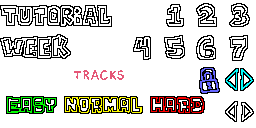
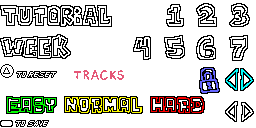
removed old ass save system

Changed region(s): [[0.0, 0.5, 0.2188, 0.625], [0.0, 0.9375, 0.1875, 1.0]]

diff --git a/src/menu/menu.c b/src/menu/menu.c
@@ -376,12 +376,9 @@ void Menu_Load(MenuPage page)
 		menu.sounds[i] = Audio_LoadSFX(sfx_path[i]);
 	}
 	
-	//Play menu music if not be the Save Warning
-	if (page != MenuPage_SaveWarning)
-	{
+	//Play menu music
 	Audio_PlayXA_Track(XA_GettinFreaky, 0x40, 0, 1);
 	Audio_WaitPlayXA();
-	}
 	
 	//Set background colour
 	Gfx_SetClear(0, 0, 0);
@@ -598,9 +595,6 @@ void Menu_Tick(void)
 				"FREEPLAY",
 				"CREDITS",
 				"OPTIONS",
-				#ifndef NOSAVE
-				"SAVE",
-				#endif
 			};
 			
 			//Initialize page
@@ -640,10 +634,6 @@ void Menu_Tick(void)
 							break;
 						case 3: //Options
 							menu.next_page = MenuPage_Options;
-							break;
-						case 4: //Save
-							//Write Save
-							WriteSave();
 							break;
 					}
 					//Play Confirm Sound
@@ -916,15 +906,16 @@ void Menu_Tick(void)
 				}
 			}
 			char scoredisp[0x100];
-
 			sprintf(scoredisp, "PERSONAL BEST: %d", stage.save.savescore[menu_options[menu.select].stage][menu.page_param.stage.diff] * 10);
 
-			menu.font_arial.draw(&menu.font_arial,
-				scoredisp,
-				SCREEN_WIDTH - 170,
-				SCREEN_HEIGHT / 2 - 75,
-				FontAlign_Left
-			);
+			#ifndef NOSAVE
+				menu.font_arial.draw(&menu.font_arial,
+					scoredisp,
+					SCREEN_WIDTH - 170,
+					SCREEN_HEIGHT / 2 - 75,
+					FontAlign_Left
+				);
+			#endif
 			
 			//Draw options
 			s32 next_scroll = menu.select * FIXED_DEC(32,1);
@@ -1143,6 +1134,24 @@ void Menu_Tick(void)
 					Trans_Start();
 				}
 			}
+
+			//Save your game
+			#ifndef NOSAVE
+				if (pad_state.press & PAD_SELECT)
+					WriteSave();
+
+				RECT save_src = {0,120, 49, 7};
+				RECT save_dst = {20, 23, 49*2, 7 *2};
+				Gfx_DrawTex(&menu.tex_story, &save_src, &save_dst);
+
+				//Reset Your Save
+				if (pad_state.press & PAD_TRIANGLE)
+					DefaultSettings();
+
+				RECT reset_src = {0, 64, 57, 14};
+				RECT reset_dst = {57*2 + 20, 9, 57*2, 14*2};
+				Gfx_DrawTex(&menu.tex_story, &reset_src, &reset_dst);
+		  #endif
 			
 			//Draw options
 			s32 next_scroll = menu.select * FIXED_DEC(24,1);
@@ -1197,80 +1206,6 @@ void Menu_Tick(void)
 			LoadScr_End();
 			break;
 		}
-
-		case MenuPage_SaveWarning:
-		{
-			static const char *menu_options[] = {
-				"YES",
-				"NO",
-			};
-			
-			if (menu.next_page == menu.page)
-			{
-				//Change options
-				if (pad_state.press & PAD_LEFT)
-				{
-					//Play Scroll Sound
-					Audio_PlaySFX(menu.sounds[0], 80);
-					if (menu.select > 0)
-							menu.select--;
-					else
-							menu.select = COUNT_OF(menu_options) - 1;
-				}
-
-				if (pad_state.press & PAD_RIGHT)
-				{
-					//Play Scroll Sound
-					Audio_PlaySFX(menu.sounds[0], 80);
-					if (menu.select < COUNT_OF(menu_options) - 1)
-						menu.select++;
-					else
-						menu.select = 0;
-				}
-				
-				//Select option if cross is pressed
-				if (pad_state.press & (PAD_START | PAD_CROSS))
-				{
-					switch (menu.select)
-					{
-						case 0: //Yes
-							//Load Save
-							ReadSave();
-							break;
-						case 1: //No
-							//Don't load Save
-							DefaultSettings();
-							break;
-					}
-
-					menu.trans_time = 0;
-					//Play Menu music
-					Audio_PlayXA_Track(XA_GettinFreaky, 0x40, 0, 1);
-					Audio_WaitPlayXA();
-
-					//Go to opening when start is pressed
-					menu.page = MenuPage_Opening;
-				}
-			
-			//Draw all options
-			for (u8 i = 0; i < COUNT_OF(menu_options); i++)
-			{
-				menu.font_bold.draw(&menu.font_bold,
-					Menu_LowerIf(menu_options[i], menu.select != i),
-					60 + i*SCREEN_WIDTH2,
-					SCREEN_HEIGHT2 + 16,
-					FontAlign_Center
-				);
-			}
-
-			//Draw Warning
-			menu.font_bold.draw(&menu.font_bold, "WARNING", SCREEN_WIDTH2 - 16, SCREEN_HEIGHT2 - 62, FontAlign_Center);
-			menu.font_bold.draw(&menu.font_cdr, "Founded a existing save called:", SCREEN_WIDTH2 / 2 - 16, SCREEN_HEIGHT2 - 46, FontAlign_Left);
-			menu.font_bold.draw(&menu.font_cdr, SaveName, SCREEN_WIDTH2, SCREEN_HEIGHT2 - 16, FontAlign_Center);
-			menu.font_bold.draw(&menu.font_cdr, "Want Load?", SCREEN_WIDTH2 - 8, SCREEN_HEIGHT2 - 0, FontAlign_Center);
-		}
-			break;
-	}
 		default:
 			break;
 	}

diff --git a/src/psx/save.c b/src/psx/save.c
@@ -12,8 +12,6 @@
 #include "mem.h"
 #include "stage/stage.h"
 
-//#define NOSAVE //This is for peoples who are making a port and don't want the save feature
-
 // Pallete Offset: 0x00000014 to 0x00000033
 // Image Offset:   0x00000040 to 0x000000BF
 
@@ -82,6 +80,7 @@ void DefaultSettings()
 
 boolean CheckSave(void)
 {
+  #ifndef NOSAVE
   int fd = open(SaveTitle, 0x0001);
 
   if (fd < 0) // file doesnt exist 
@@ -92,6 +91,10 @@ boolean CheckSave(void)
   else
     printf("Founded Save\n");
   return true;
+
+  #else
+    return false;
+  #endif
 }
 
 boolean ReadSave()
@@ -121,6 +124,7 @@ boolean ReadSave()
 
 void WriteSave()
 { 
+  #ifndef NOSAVE
   int fd = open(SaveTitle, 0x0002);
 
   if (fd < 0) // if save doesnt exist make one
@@ -143,6 +147,7 @@ void WriteSave()
   } 
   else 
     printf("Not Managed To Save %d\n", fd);  // failed to save
+  #endif
 }
 
 //Initiliaze memory card

diff --git a/src/psx/main.c b/src/psx/main.c
@@ -69,19 +69,12 @@ int main(int argc, char **argv)
 	gameloop = GameLoop_Menu;
 
 	//If not found any save, enable default settings and load opening
-	#ifndef NOSAVE
-		if (CheckSave() == false)
-		{
-			DefaultSettings();
-			Menu_Load(MenuPage_Opening);
-		}
-		//Load Save Warning
-		else
-			Menu_Load(MenuPage_SaveWarning);
+	if (CheckSave() == false)
+		DefaultSettings();
+	else
+		ReadSave();
 
-		#else
-		Menu_Load(MenuPage_Opening);
-		#endif
+	Menu_Load(MenuPage_Opening);
 	
 	//Game loop
 	while (PSX_Running())

diff --git a/src/psx/save.h b/src/psx/save.h
@@ -14,7 +14,7 @@
 //What will be displayed in memory card
 #define SaveName  "PSXFunkinPotageEngine"
 
-//#define NOSAVE //Enable this if you don't want the save system
+#define NOSAVE //Enable this if you don't want the save system
 
 typedef struct {
     u16 id; // must be 0x4353

diff --git a/src/menu/menu.h b/src/menu/menu.h
@@ -19,10 +19,8 @@ typedef enum
 	MenuPage_Freeplay,
 	MenuPage_Credits,
 	MenuPage_Options,
-	MenuPage_Save,
 	
 	MenuPage_Stage, //Changes game loop
-	MenuPage_SaveWarning,
 } MenuPage;
 
 //Menu functions
